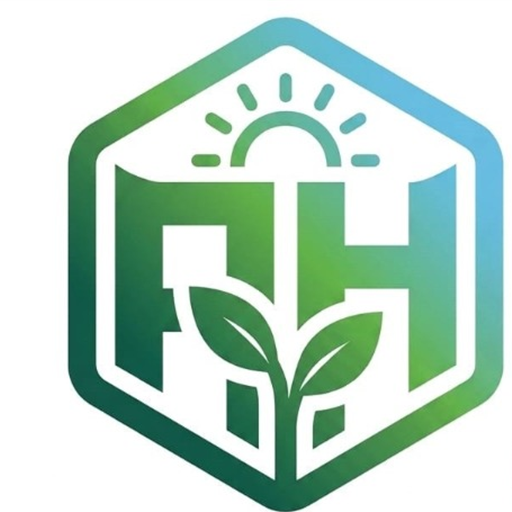
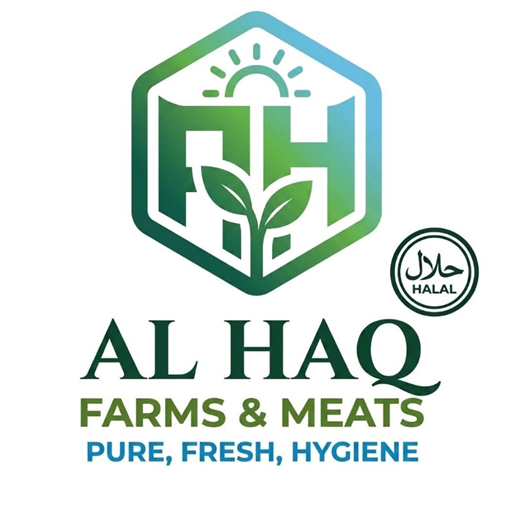
Fit branding assets and founder panel

diff --git a/app/page.tsx b/app/page.tsx
@@ -393,16 +393,16 @@ export default async function HomePage() {
 
       {/* Founder */}
       <section className="px-4 py-24">
-        <div className="mx-auto w-full max-w-4xl">
+        <div className="mx-auto w-full max-w-6xl">
           <Reveal>
-            <GlassCard padding="none" className="grid overflow-hidden md:grid-cols-[240px_1fr]">
-              <div className="relative min-h-[280px] md:min-h-full">
+            <GlassCard padding="none" className="grid overflow-hidden md:grid-cols-[minmax(300px,360px)_1fr]">
+              <div className="relative aspect-[350/378] bg-white md:aspect-auto md:min-h-full">
                 <Image
                   src="/assets/brand/ceo.jpg"
                   alt={content.home.founder.name}
                   fill
-                  sizes="(max-width: 768px) 100vw, 240px"
-                  className="object-cover object-top"
+                  sizes="(max-width: 768px) 100vw, 360px"
+                  className="object-contain"
                 />
               </div>
               <div className="p-6 sm:p-8">

diff --git a/app/layout.tsx b/app/layout.tsx
@@ -40,8 +40,19 @@ export function generateMetadata(): Metadata {
       description: content.home.hero.text,
     },
     icons: {
-      icon: "/assets/brand/alhaq-farms-icon.png",
-      apple: "/assets/brand/alhaq-farms-icon.png",
+      icon: [
+        {
+          url: "/assets/brand/alhaq-farms-icon-32.png",
+          sizes: "32x32",
+          type: "image/png",
+        },
+        {
+          url: "/assets/brand/alhaq-farms-icon-192.png",
+          sizes: "192x192",
+          type: "image/png",
+        },
+      ],
+      apple: "/assets/brand/alhaq-farms-icon-180.png",
     },
   };
 }

diff --git a/components/Navbar.tsx b/components/Navbar.tsx
@@ -100,7 +100,7 @@ export function Navbar({ brand }: NavbarProps) {
           )}
         >
           <Link href="/" className="flex items-center gap-2.5 rounded-full pr-2" aria-label={brand.businessName}>
-            <BrandMark brand={brand} size={34} />
+            <BrandMark brand={brand} size={38} />
             <span className="flex flex-col leading-tight">
               <span className="text-sm font-semibold text-ink">{brand.businessName}</span>
               <span className="hidden text-[0.6875rem] text-muted sm:block">{brand.tagline}</span>

diff --git a/app/manifest.ts b/app/manifest.ts
@@ -11,6 +11,12 @@ export default function manifest(): MetadataRoute.Manifest {
     theme_color: "#a20d19",
     icons: [
       {
+        src: "/assets/brand/alhaq-farms-icon-192.png",
+        sizes: "192x192",
+        type: "image/png",
+        purpose: "any",
+      },
+      {
         src: "/assets/brand/alhaq-farms-icon.png",
         sizes: "512x512",
         type: "image/png",
